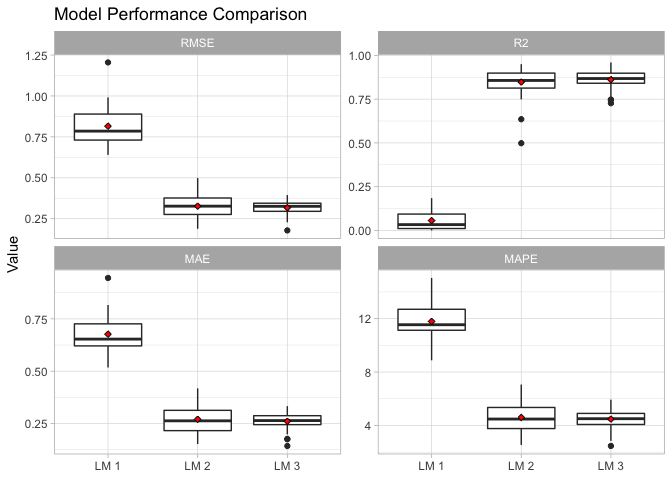
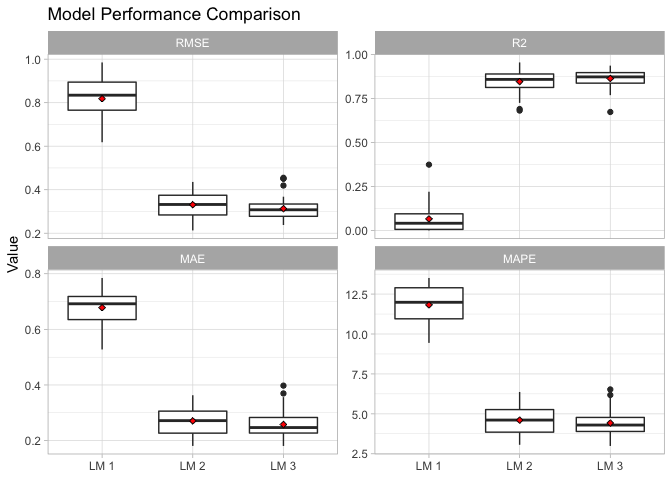
minor update to multiple files

diff --git a/README.md b/README.md
@@ -69,12 +69,12 @@ compute_mod_results(glm_fit_1, "GLM 1") %>% head()
 #> # A tibble: 6 x 14
 #>   Model Resample   ROC Sensitivity Specificity Precision Accuracy
 #>   <chr> <chr>    <dbl>       <dbl>       <dbl>     <dbl>    <dbl>
-#> 1 GLM 1 Fold01.… 0.998       0.917       1         1        0.971
-#> 2 GLM 1 Fold01.… 0.985       0.958       0.978     0.958    0.971
-#> 3 GLM 1 Fold01.… 0.955       0.875       0.935     0.875    0.914
-#> 4 GLM 1 Fold01.… 0.984       0.958       0.935     0.885    0.943
-#> 5 GLM 1 Fold02.… 0.989       0.917       0.956     0.917    0.942
-#> 6 GLM 1 Fold02.… 0.999       0.958       1         1        0.986
+#> 1 GLM 1 Fold01.… 0.996       1           0.957     0.923    0.971
+#> 2 GLM 1 Fold01.… 1.000       0.917       1         1        0.971
+#> 3 GLM 1 Fold01.… 0.993       0.958       0.978     0.958    0.971
+#> 4 GLM 1 Fold01.… 0.997       0.917       1         1        0.971
+#> 5 GLM 1 Fold02.… 0.999       0.917       1         1        0.971
+#> 6 GLM 1 Fold02.… 0.942       0.958       0.913     0.852    0.929
 #> # ... with 7 more variables: `Cohen's Kappa` <dbl>, `F1 Score` <dbl>,
 #> #   `Matthews Corr. Coeff.` <dbl>, Concordance <dbl>, Discordance <dbl>,
 #> #   `Somer's D` <dbl>, `KS Statistic` <dbl>
@@ -88,12 +88,12 @@ mod_results %>% head()
 #> # A tibble: 6 x 14
 #>   Model Resample   ROC Sensitivity Specificity Precision Accuracy
 #>   <chr> <chr>    <dbl>       <dbl>       <dbl>     <dbl>    <dbl>
-#> 1 GLM 1 Fold01.… 0.998       0.917       1         1        0.971
-#> 2 GLM 1 Fold01.… 0.985       0.958       0.978     0.958    0.971
-#> 3 GLM 1 Fold01.… 0.955       0.875       0.935     0.875    0.914
-#> 4 GLM 1 Fold01.… 0.984       0.958       0.935     0.885    0.943
-#> 5 GLM 1 Fold02.… 0.989       0.917       0.956     0.917    0.942
-#> 6 GLM 1 Fold02.… 0.999       0.958       1         1        0.986
+#> 1 GLM 1 Fold01.… 0.996       1           0.957     0.923    0.971
+#> 2 GLM 1 Fold01.… 1.000       0.917       1         1        0.971
+#> 3 GLM 1 Fold01.… 0.993       0.958       0.978     0.958    0.971
+#> 4 GLM 1 Fold01.… 0.997       0.917       1         1        0.971
+#> 5 GLM 1 Fold02.… 0.999       0.917       1         1        0.971
+#> 6 GLM 1 Fold02.… 0.942       0.958       0.913     0.852    0.929
 #> # ... with 7 more variables: `Cohen's Kappa` <dbl>, `F1 Score` <dbl>,
 #> #   `Matthews Corr. Coeff.` <dbl>, Concordance <dbl>, Discordance <dbl>,
 #> #   `Somer's D` <dbl>, `KS Statistic` <dbl>
@@ -141,14 +141,14 @@ The compute\_mod\_results() function works with a single caret model object and 
 ``` r
 compute_mod_results(lm_fit_1, "LM 1") %>% head()
 #> # A tibble: 6 x 6
-#>   Model Resample     RMSE      R2   MAE  MAPE
-#>   <chr> <chr>       <dbl>   <dbl> <dbl> <dbl>
-#> 1 LM 1  Fold01.Rep1 0.991 0.0292  0.793 12.9 
-#> 2 LM 1  Fold01.Rep2 0.720 0.0544  0.618 11.4 
-#> 3 LM 1  Fold01.Rep3 0.763 0.00720 0.626 11.1 
-#> 4 LM 1  Fold01.Rep4 0.889 0.105   0.754 13.9 
-#> 5 LM 1  Fold02.Rep1 0.734 0.00512 0.629 11.5 
-#> 6 LM 1  Fold02.Rep2 0.740 0.00133 0.568  9.37
+#>   Model Resample     RMSE       R2   MAE  MAPE
+#>   <chr> <chr>       <dbl>    <dbl> <dbl> <dbl>
+#> 1 LM 1  Fold01.Rep1 0.894 0.000672 0.696  11.9
+#> 2 LM 1  Fold01.Rep2 0.776 0.107    0.657  11.8
+#> 3 LM 1  Fold01.Rep3 0.961 0.0327   0.774  13.0
+#> 4 LM 1  Fold01.Rep4 0.773 0.00172  0.641  11.7
+#> 5 LM 1  Fold02.Rep1 0.683 0.0647   0.582  10.2
+#> 6 LM 1  Fold02.Rep2 0.964 0.220    0.757  13.3
 ```
 
 The all\_mod\_results() function works with multiple caret model objects and computes their model performance metrics:
@@ -157,14 +157,14 @@ The all\_mod\_results() function works with multiple caret model objects and com
 mod_results <- all_mod_results(list(lm_fit_1, lm_fit_2, lm_fit_3), c("LM 1", "LM 2", "LM 3"))
 mod_results %>% head()
 #> # A tibble: 6 x 6
-#>   Model Resample     RMSE      R2   MAE  MAPE
-#>   <chr> <chr>       <dbl>   <dbl> <dbl> <dbl>
-#> 1 LM 1  Fold01.Rep1 0.991 0.0292  0.793 12.9 
-#> 2 LM 1  Fold01.Rep2 0.720 0.0544  0.618 11.4 
-#> 3 LM 1  Fold01.Rep3 0.763 0.00720 0.626 11.1 
-#> 4 LM 1  Fold01.Rep4 0.889 0.105   0.754 13.9 
-#> 5 LM 1  Fold02.Rep1 0.734 0.00512 0.629 11.5 
-#> 6 LM 1  Fold02.Rep2 0.740 0.00133 0.568  9.37
+#>   Model Resample     RMSE       R2   MAE  MAPE
+#>   <chr> <chr>       <dbl>    <dbl> <dbl> <dbl>
+#> 1 LM 1  Fold01.Rep1 0.894 0.000672 0.696  11.9
+#> 2 LM 1  Fold01.Rep2 0.776 0.107    0.657  11.8
+#> 3 LM 1  Fold01.Rep3 0.961 0.0327   0.774  13.0
+#> 4 LM 1  Fold01.Rep4 0.773 0.00172  0.641  11.7
+#> 5 LM 1  Fold02.Rep1 0.683 0.0647   0.582  10.2
+#> 6 LM 1  Fold02.Rep2 0.964 0.220    0.757  13.3
 ```
 
 The plot\_mod\_results() function produces a box plot of the models performance metrics:
@@ -191,10 +191,10 @@ Below is a dataframe with numeric columns including univariate outliers:
 ``` r
 theme_set(theme_light())
 
-mydata <- tibble(a=(c(10,11,12,seq(70,90,2),50,60)),
-                 b=(c(5,11,12,seq(10,20,1),50,60)),
-                 c=(c(3,11,12,seq(30,40,1),44,80)),
-                 d=(c(0,0,12,seq(20,25,0.5),50,100)))
+mydata <- data_frame(a=(c(10,11,12,seq(70,90,2),50,60)),
+                     b=(c(5,11,12,seq(10,20,1),50,60)),
+                     c=(c(3,11,12,seq(30,40,1),44,80)),
+                     d=(c(0,0,12,seq(20,25,0.5),50,100)))
 
 ggplot(gather(mydata, key, value), aes(key, value)) + geom_boxplot()
 ```
@@ -221,10 +221,10 @@ Note that new data (eg. test data), can be truncated using the training data qua
 Let's make some test data and draw a box plot:
 
 ``` r
-mydata_test <- tibble(a=(c(0,11,12, seq(70,90,2), 50, 110)),
-                      b=(c(-10,20,25, seq(20,30,1), 50, 60)),
-                      c=(c(25,11,12, seq(25,35,1), 104, 90)),
-                      d=(c(-5,-12,12, seq(15,20,0.5), 50, 100)))
+mydata_test <- data_frame(a=(c(0,11,12, seq(70,90,2), 50, 110)),
+                          b=(c(-10,20,25, seq(20,30,1), 50, 60)),
+                          c=(c(25,11,12, seq(25,35,1), 104, 90)),
+                          d=(c(-5,-12,12, seq(15,20,0.5), 50, 100)))
 
 ggplot(gather(mydata_test, key, value), aes(key, value)) + geom_boxplot()
 ```
